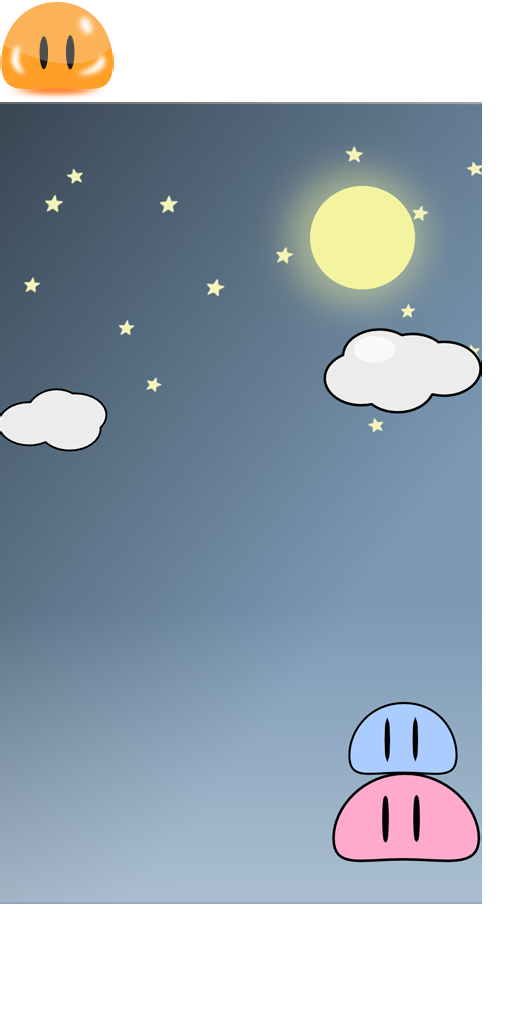
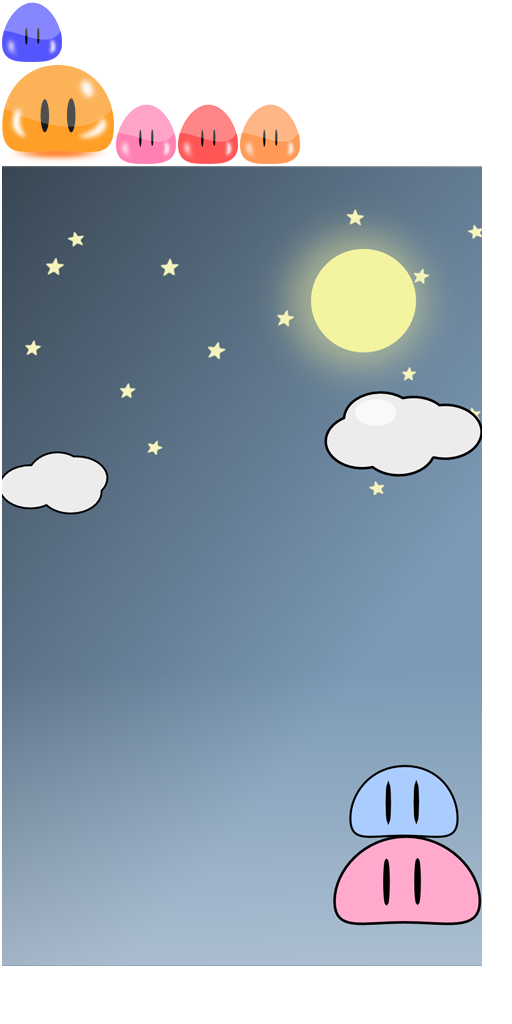
团子素材制作 显示在屏幕上看看效果

diff --git a/Crystal/src/com/xinlan/crystal/role/Dump.java b/Crystal/src/com/xinlan/crystal/role/Dump.java
@@ -14,7 +14,7 @@ public class Dump extends Sprite
     public Dump(GameScreen context)
     {
         this.mContext = context;
-        this.set(Resource.getInstance().sp);
+        this.set(Resource.getInstance().dumpPink);
         pos.x = 100;
         pos.y = 400;
         this.setPosition(pos.x, pos.y);
@@ -23,9 +23,9 @@ public class Dump extends Sprite
     public void draw(SpriteBatch batch) {
         super.draw(batch);
         //this.setColor(1f, 1f, 1f, 1f);
-        this.setOrigin(getWidth()/2, getHeight()/2);
-        this.rotate(1);
-        this.scale(0.01f);
+        //this.setOrigin(getWidth()/2, getHeight()/2);
+//        this.rotate(1);
+//        this.scale(0.01f);
         //this.setSize(this.getHeight(), this.getWidth()+1);
     }
 }//end class

diff --git a/Crystal/src/com/xinlan/crystal/Resource.java b/Crystal/src/com/xinlan/crystal/Resource.java
@@ -11,6 +11,11 @@ public class Resource {
 	public TextureRegion gameBgTexture;
 	public Sprite sp;
 	
+	public Sprite dumpBlue;
+	public Sprite dumpRed;
+	public Sprite dumpYellow;
+	public Sprite dumpPink;
+	
 	
 	public static Resource getInstance() {
 		if (instance == null) {
@@ -30,7 +35,10 @@ public class Resource {
 				Gdx.files.internal("data/mark.pack"));
 		gameBgTexture = (TextureRegion) atlas.findRegion("gamebg");
 		sp = atlas.createSprite("ic_launcher");
-		
+		dumpBlue = atlas.createSprite("dump_blue");
+		dumpRed = atlas.createSprite("dump_red");
+		dumpYellow = atlas.createSprite("dump_yellow");
+		dumpPink = atlas.createSprite("dump_pink");
 	}
 
 	public void dispose() {
